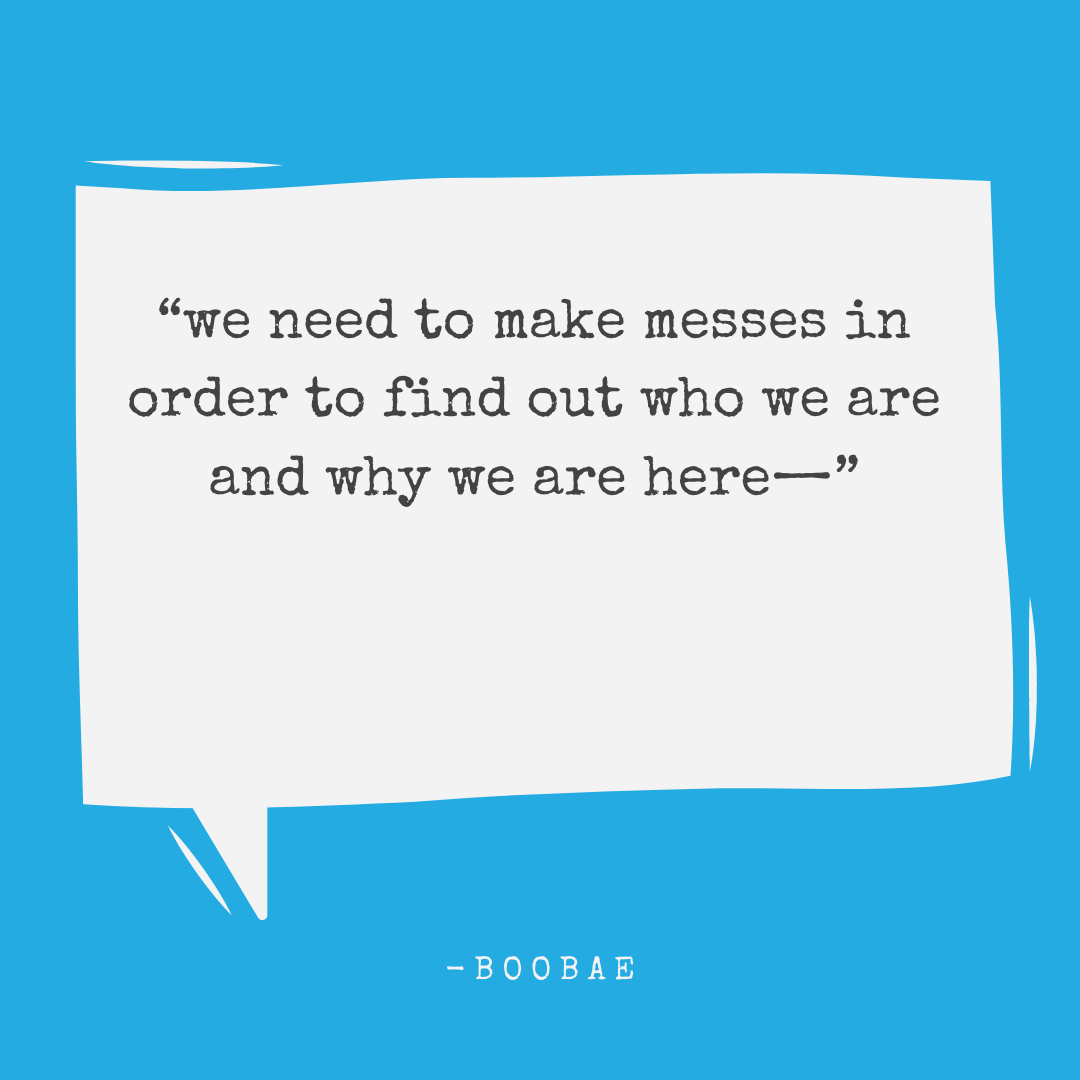
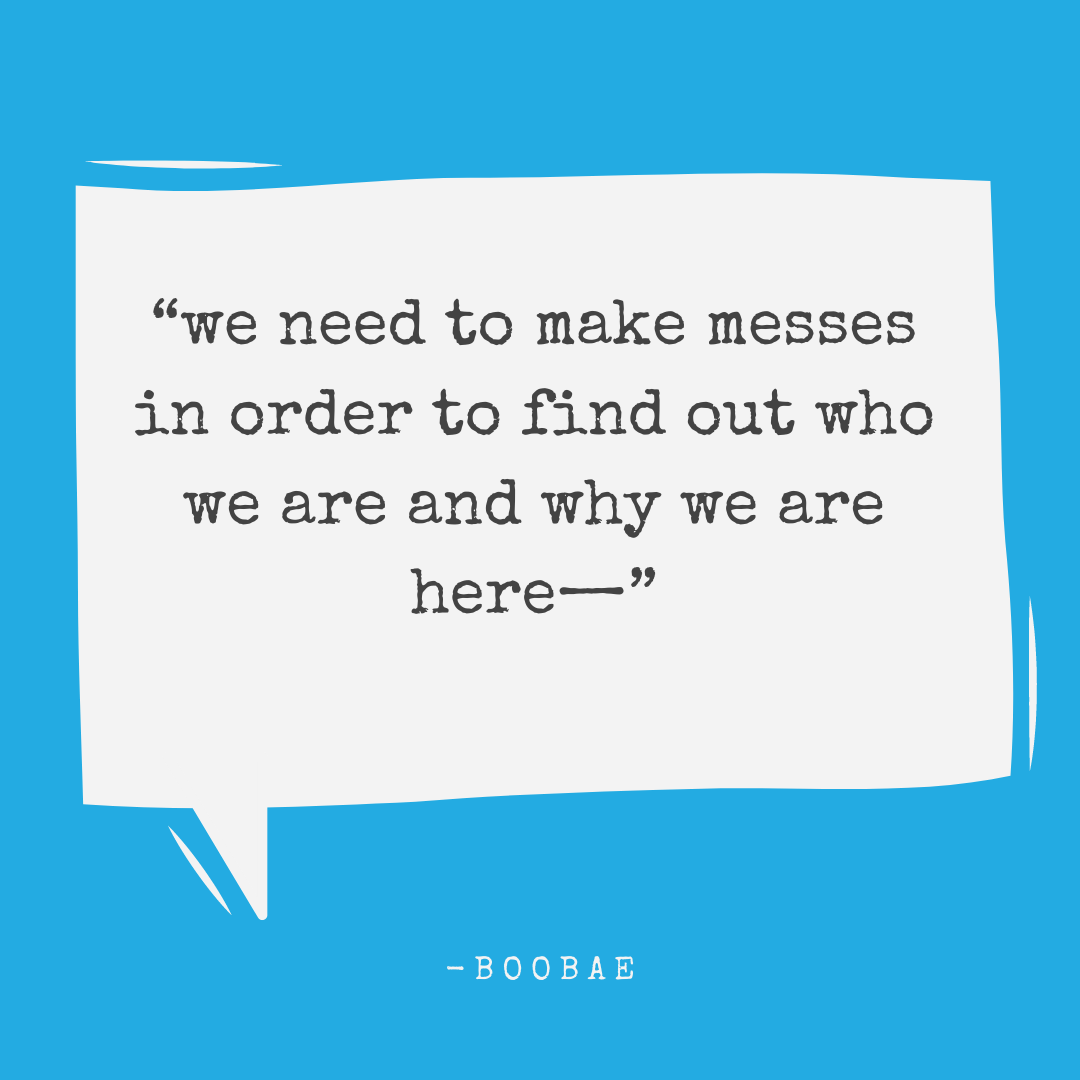
new

Changed region(s): [[0.1222, 0.275, 0.8861, 0.5806]]

diff --git a/src/pages/blog.js b/src/pages/blog.js
@@ -16,7 +16,7 @@ const Blog = ({ path, data }) => {
     url: 'https://boobae.blog/blog',
     imgUrl: `${data.pageImg.publicURL}`,
     imgAlt:
-      'jdcastro logo, twitter, instagram, facebook, github icons with @williamsconcepts username',
+      'boobae logo, twitter, instagram, facebook, github icons with @williamsconcepts username',
     breadcrumbs: [
       {
         name: 'Blog',
@@ -28,7 +28,7 @@ const Blog = ({ path, data }) => {
   return (
     <Layout seo={seo} path={path}>
       <BlogPageWrapper>
-        <h1>Blog Posts</h1>
+        <h1>Quotes</h1>
         <div className="blogPostList">
           {data.allMarkdownRemark.edges.map(({ node }) => (
             <BlogListing key={node.id} data={node} />

diff --git a/src/utils/typography.js b/src/utils/typography.js
@@ -1,13 +1,13 @@
 import Typography from 'typography';
 
 const typography = new Typography({
-  baseFontSize: '20px',
+  baseFontSize: '16px',
   baseLineHeight: '1.666',
-  headerFontFamily: ['Baloo Tamma 2', 'cursive'],
+  headerFontFamily: ['Montserrat', 'sans-serif'],
   bodyFontFamily: ['Open Sans', 'sans-serif'],
   googleFonts: [
     {
-      name: 'Baloo Tamma 2',
+      name: 'Montserrat',
       styles: ['800', '400'],
     },
     {
@@ -16,5 +16,6 @@ const typography = new Typography({
     },
   ],
 });
+
 
 export default typography;

diff --git a/src/pages/index.js b/src/pages/index.js
@@ -95,7 +95,7 @@ const Index = ({ path, data }) => {
             <li>
               <a
                 target="_blank"
-                href={data.resume.publicURL}
+                // href={data.resume.publicURL}
                 rel="noopener"
                 aria-label="My Resume"
               >

diff --git a/content/tutorials/keep-your-sqaut-low-and-standard-high/index.md b/content/tutorials/keep-your-sqaut-low-and-standard-high/index.md
@@ -14,7 +14,7 @@ type: "tutorial"
 ---
 
 
-## KEEP YOUR SQUATS LOW AND YOUR STANDARDS HIGH.
+## KEEP YOUR SQUATS LOW AND YOUR STANDARDS HIGH
 
 
 > This sentence could mean a lot of things.
@@ -26,12 +26,11 @@ type: "tutorial"
 ## Always know that you live for yourself.
 
 > This doesn’t necessarily mean  looking down on people, not considering people feelings, but live a life of your own. don’t seek to  impress rather seek to impact. Aim high and live that life you desire.
-  
->  - your outcome is a lagging measure of your habits.
-  
+> 
+> - your outcome is a lagging measure of your habits.
+> 
 > - Just like your net worth is a lagging measure of your financial habits, every habit you form amounts to something; either good or bad. 
-
-
+>
 > - This good habits can be said to be the building blocks of good outcomes or results.
 
 

diff --git a/content/blogPosts/2020/3.md b/content/blogPosts/2020/3.md
@@ -1,0 +1,17 @@
+---
+type: "blogPost"
+slug: "3"
+title: "#3"
+image: "3.png"
+imageTitle: "BOOBAE"
+imageAlt: "A picture created with canva, giving you tips"
+date: "2020-08-20T00:00:00-07:00"
+tags:
+  - "life"
+  - "quotes"
+---
+
+
+## [LIFE]
+
+> “we need to make messes in order to find out who we are and why we are here—and, by extension, what we’re supposed to be writing.”

diff --git a/content/blogPosts/2020/1.md b/content/blogPosts/2020/1.md
@@ -1,7 +1,7 @@
 ---
 type: "blogPost"
 slug: "1"
-title: "Life Tips!"
+title: "#1"
 image: "1.png"
 imageTitle: "BOOBAE"
 imageAlt: "A picture created with canva, giving you tips"
@@ -10,8 +10,3 @@ tags:
   - "life"
   - "quotes"
 ---
-
-
-## LIFE
-
-> "for a life oriented to leisure is in the end a life oriented to death—the greatest leisure of all."

diff --git a/content/blogPosts/2020/4.md b/content/blogPosts/2020/4.md
@@ -1,13 +1,12 @@
 ---
 type: "blogPost"
-slug: "2"
-title: "#2"
-image: "2.png"
+slug: "4"
+title: "#4"
+image: "4.png"
 imageTitle: "BOOBAE"
 imageAlt: "A picture created with canva, giving you tips"
-date: "2020-08-19T00:00:00-07:00"
+date: "2020-08-21T00:00:00-07:00"
 tags:
   - "life"
   - "quotes"
 ---
-

diff --git a/content/blogPosts/2020/9.md b/content/blogPosts/2020/9.md
@@ -1,13 +1,12 @@
 ---
 type: "blogPost"
-slug: "2"
-title: "#2"
-image: "2.png"
+slug: "9"
+title: "#9"
+image: "9.png"
 imageTitle: "BOOBAE"
 imageAlt: "A picture created with canva, giving you tips"
-date: "2020-08-19T00:00:00-07:00"
+date: "2020-08-26T00:00:00-07:00"
 tags:
   - "life"
   - "quotes"
 ---
-

diff --git a/content/blogPosts/2020/10.md b/content/blogPosts/2020/10.md
@@ -1,11 +1,11 @@
 ---
 type: "blogPost"
-slug: "2"
-title: "#2"
-image: "2.png"
+slug: "10"
+title: "#10"
+image: "10.png"
 imageTitle: "BOOBAE"
 imageAlt: "A picture created with canva, giving you tips"
-date: "2020-08-19T00:00:00-07:00"
+date: "2020-08-27T00:00:00-07:00"
 tags:
   - "life"
   - "quotes"

diff --git a/content/blogPosts/2020/11.md b/content/blogPosts/2020/11.md
@@ -1,11 +1,11 @@
 ---
 type: "blogPost"
-slug: "2"
-title: "#2"
-image: "2.png"
+slug: "11"
+title: "#11"
+image: "11.png"
 imageTitle: "BOOBAE"
 imageAlt: "A picture created with canva, giving you tips"
-date: "2020-08-19T00:00:00-07:00"
+date: "2020-08-28T00:00:00-07:00"
 tags:
   - "life"
   - "quotes"

diff --git a/content/blogPosts/2020/12.md b/content/blogPosts/2020/12.md
@@ -1,11 +1,11 @@
 ---
 type: "blogPost"
-slug: "2"
-title: "#2"
-image: "2.png"
+slug: "12"
+title: "#12"
+image: "12.png"
 imageTitle: "BOOBAE"
 imageAlt: "A picture created with canva, giving you tips"
-date: "2020-08-19T00:00:00-07:00"
+date: "2020-08-29T00:00:00-07:00"
 tags:
   - "life"
   - "quotes"

diff --git a/content/blogPosts/2020/13.md b/content/blogPosts/2020/13.md
@@ -1,11 +1,11 @@
 ---
 type: "blogPost"
-slug: "2"
-title: "#2"
-image: "2.png"
+slug: "13"
+title: "#13"
+image: "13.png"
 imageTitle: "BOOBAE"
 imageAlt: "A picture created with canva, giving you tips"
-date: "2020-08-19T00:00:00-07:00"
+date: "2020-08-30T00:00:00-07:00"
 tags:
   - "life"
   - "quotes"
